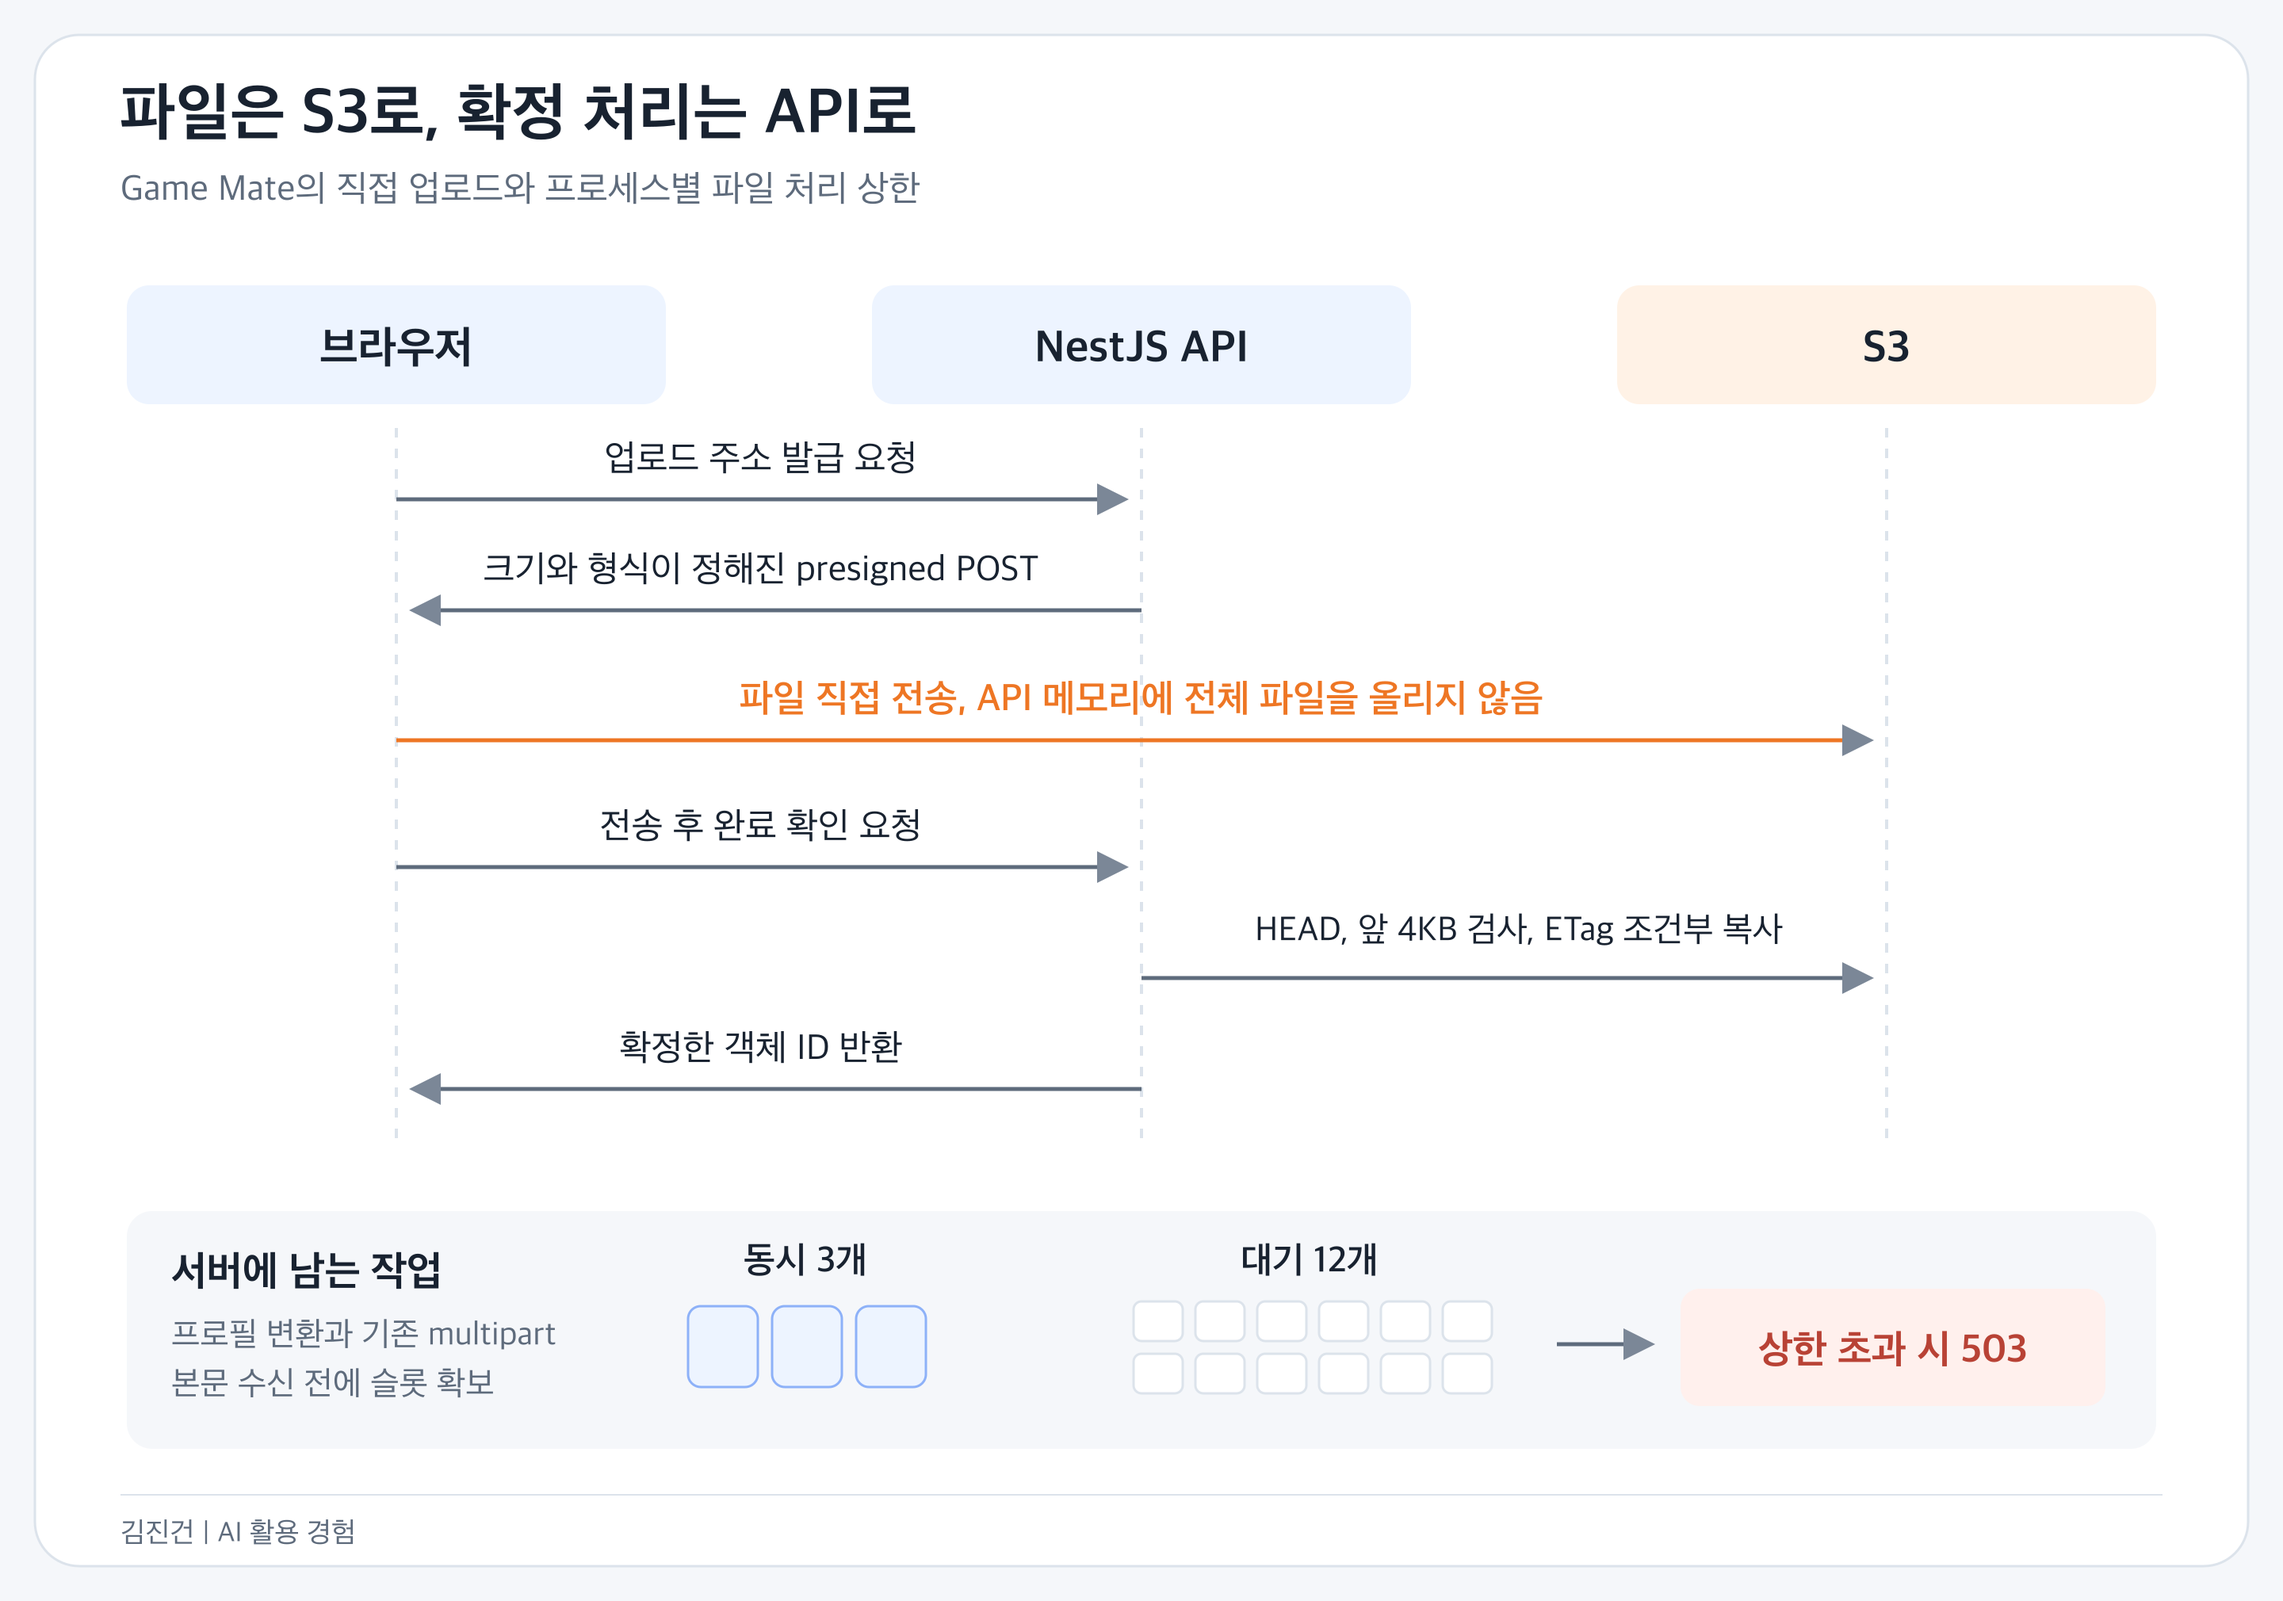
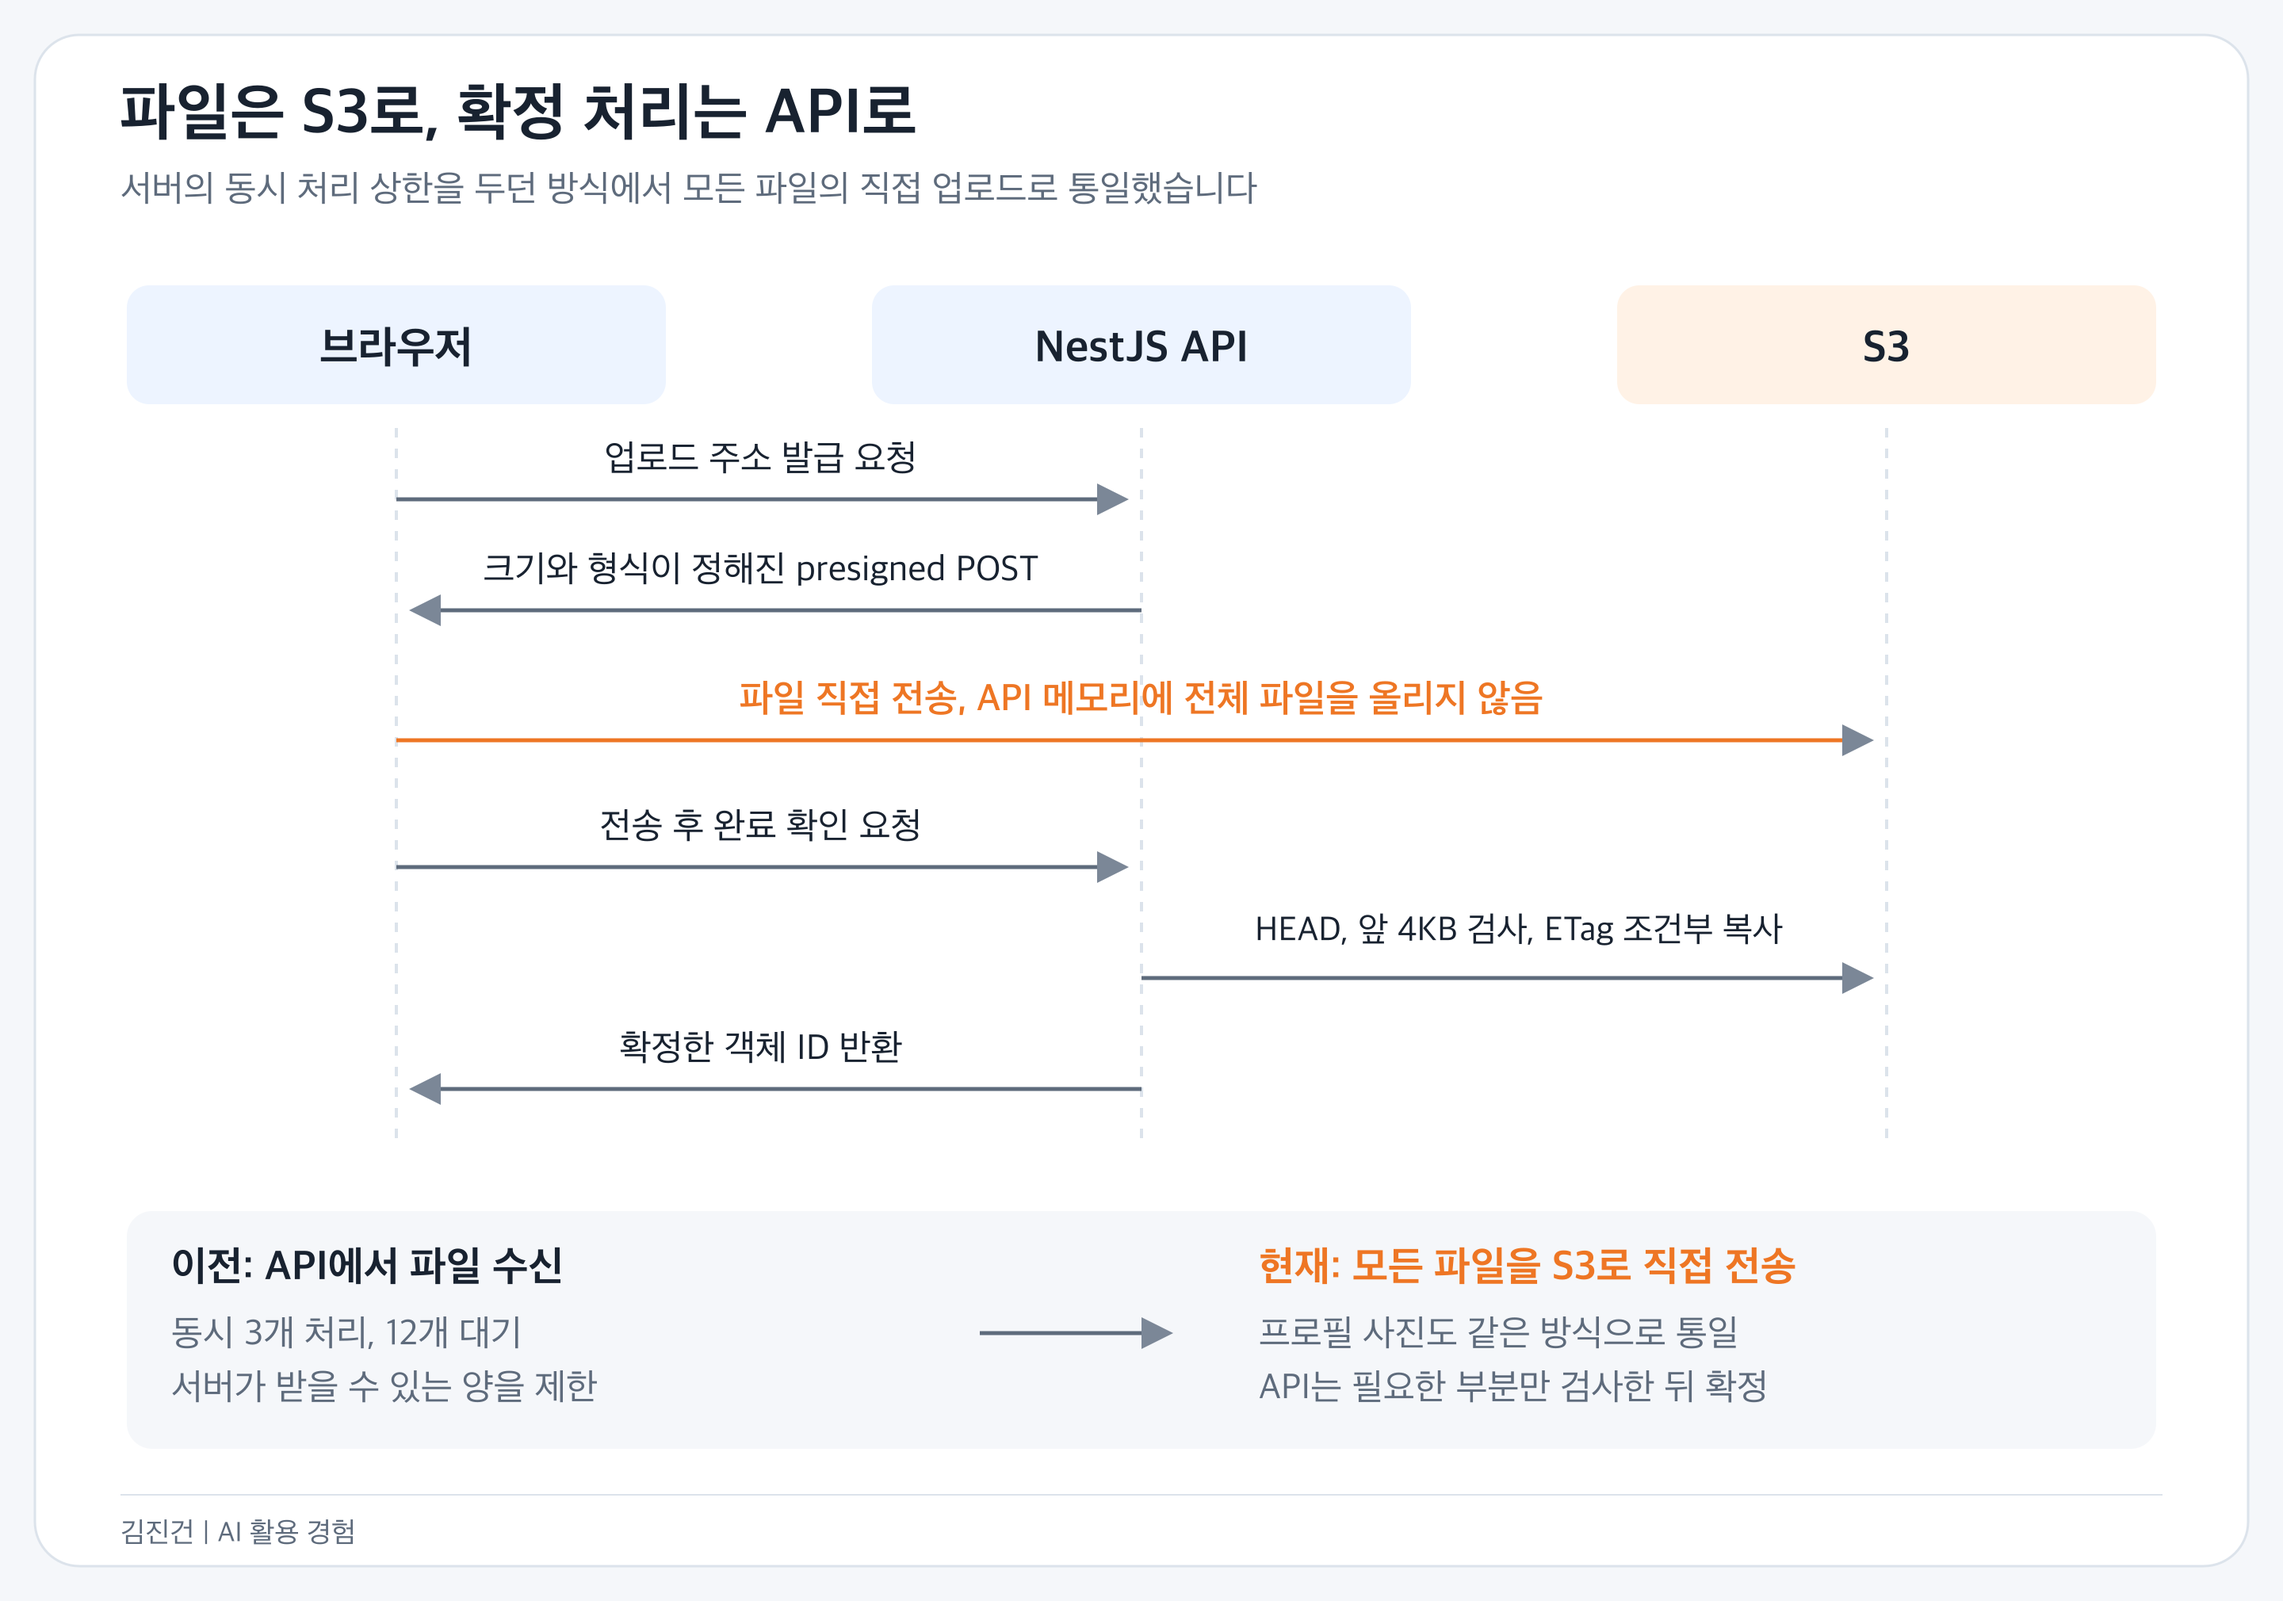
docs(doers): 사이드프로젝트의 판단과 AI 검증 과정을 보강한다

diff --git a/resumes/doers/resume-doers-ai-product-engineer.md b/resumes/doers/resume-doers-ai-product-engineer.md
@@ -32,13 +32,13 @@ Yarn workspace 모노레포에서 사진 커뮤니티와 글로벌 게임 커뮤
 
 - 사진 서비스는 GraphQL과 Apollo, 게임 서비스는 REST와 TanStack Query를 사용합니다. API와 브라우저 캐시는 서비스별로 유지합니다. 공개 데이터는 SSR 캐시를 공유하고 사용자별 데이터는 따로 조회합니다.
 - 게임 게시글을 수정하면 NestJS에서 Next.js Route Handler를 호출해 공개 캐시를 만료하도록 했습니다. DB에 변경 내용과 만료할 태그를 함께 저장해 호출 실패 시 재시도합니다. 이전 요청이 늦게 끝나 새 기록을 지우지 않도록 revision이 일치할 때만 대기 기록을 삭제합니다.
-- 파일은 브라우저에서 S3로 바로 올리도록 바꿨습니다. 게임 서비스는 업로드 후 HEAD와 파일 앞 4KB를 검사하고 ETag가 일치할 때 최종 객체로 복사합니다. 전체 파일을 API 서버 메모리에 올리지 않는 방식입니다. 서버에 남은 multipart 처리와 프로필 변환은 프로세스당 동시 3개, 대기 12개로 제한했습니다.
+- 파일은 프로필 사진까지 브라우저에서 S3로 바로 올리도록 통일했습니다. 게임 서비스는 업로드 후 HEAD와 파일 앞 4KB를 검사하고 ETag가 일치할 때 최종 객체로 복사합니다. 전체 파일을 API 서버 메모리에 올리지 않는 방식입니다.
 
 ### 테스트와 배포 구성
 
 - Vitest로 도메인 규칙을, Supertest와 격리된 PostgreSQL로 API 응답과 DB 결과를 테스트합니다. 브라우저 흐름은 Playwright로 확인합니다. 테스트 설정은 각 앱에서 관리하고 루트에서는 실행만 위임합니다.
 - 공용 ESLint 패키지에서 FSD 경계와 공개 API, 컴포넌트의 직접 fetch, 중복된 오버레이 상태를 검사합니다. 규칙은 TypeScript로 작성하고 RuleTester와 fixture로 테스트합니다. DOM 관련 규칙은 Next.js와 Vite에만 적용하고 Expo에서는 제외했습니다.
-- Sentry로 오류 모니터링과 로깅, Web Vitals 측정을 적용했습니다. Amplitude와 Sentry를 MCP로 연결해 에이전트가 사용자 행동 데이터와 오류, 성능 정보를 개발 과정에서 참고할 수 있도록 했습니다.
+- Sentry로 오류 모니터링과 로깅을 적용하고, Amplitude로 사용자 행동을 수집합니다. 두 도구를 MCP로 연결해 개발용 Sentry 이벤트와 Amplitude 페이지뷰가 실제로 수집됐는지 다시 조회했습니다.
 - 배포 비용을 줄일 방법과 CD 설정 순서를 AI에게 물어보고 EC2 한 대에 두 서비스를 올리기로 했습니다. DB와 파일은 외부 RDS와 서비스별 S3에 둡니다. Terraform으로 네트워크와 리소스, 권한을 구성하고 mock provider 테스트를 붙였습니다. 실제 AWS 계정에 적용하거나 운영 부하를 검증한 단계는 아닙니다.
 
 ## 경력

diff --git a/resumes/doers/assets/ai-experience/README.md b/resumes/doers/assets/ai-experience/README.md
@@ -8,9 +8,10 @@
 | 02-product-direction | 기간제 사진 대회에서 상시 그룹으로 바꾼 방향 |
 | 03-service-architecture | 두 서비스의 API와 클라이언트 캐시, 공유 패키지 |
 | 04-cache-invalidation | DB 변경과 태그 무효화, 전달 실패 복구 |
-| 05-upload-concurrency | Game Mate의 직접 업로드와 프로세스별 처리 상한 |
+| 05-upload-concurrency | API 수신의 동시 처리 제한에서 S3 직접 업로드로 바꾼 흐름 |
 | 06-test-strategy | 테스트 범위와 명세, 회귀 테스트, lint 검증 |
 | 07-deployment | 공용 EC2와 외부 RDS, 서비스별 S3 배포 구성 |
+| 08-monitoring-mcp | Sentry와 Amplitude 수집, MCP로 실제 수신 결과 재조회 |
 
 ## 화면 캡처
 
@@ -24,7 +25,9 @@ captures 폴더는 기존 개발 화면의 PNG를 수정 없이 복사한 원본
 
 ## 구성도의 기준
 
-본문의 코드 링크와 같은 side-project 커밋 6d858497을 기준으로 했습니다. 캐시 전달 실패 후 재시도와 revision 확인, 파일 처리 상한은 실제 구현과 대조했습니다. 사진 서비스는 파일 내용을 읽지 않고 HEAD만 확인하므로 Game Mate의 4KB 검사와 구분합니다. 배포 그림은 Terraform 구성과 mock provider 테스트까지 준비한 상태를 설명하며 실제 AWS 적용 완료를 뜻하지 않습니다.
+2026년 10월 26일 side-project의 develop, 커밋 2aa865bf를 기준으로 본문과 구성도를 대조했습니다. 캐시 전달 실패 후 재시도와 revision 확인은 그대로 유지했습니다. 05번은 과거 동시 3개, 대기 12개 제한과 현재의 S3 직접 업로드를 구분하도록 바꿨습니다. 사진 서비스는 파일 내용을 읽지 않고 HEAD만 확인하므로 Game Mate의 4KB 검사와 구분합니다.
+
+08번은 두 서비스의 observability 문서에 남은 실제 수신과 MCP 재조회 과정을 설명합니다. 개발용 이벤트와 페이지뷰 집계 확인이며 제품의 전환율이나 성능 개선 성과를 뜻하지 않습니다. Web Vitals 전송은 현재 두 웹의 코드에서 확인되지 않아 그림에 넣지 않았습니다. 배포 그림은 Terraform과 컨테이너 smoke 테스트를 준비한 상태로, 실제 AWS 적용 완료를 뜻하지 않습니다.
 
 실무의 QA 더블 체크 요청은 그대로 유지하고, 사이드 프로젝트에 별도 QA 요청 단계가 있었다고 그리지 않았습니다.
 

diff --git a/resumes/doers/README.md b/resumes/doers/README.md
@@ -9,7 +9,7 @@
 
 ## 코드와 기록
 
-코드 링크는 `side-project`의 `6d858497264490c7095e51b8e0effed55324e913`에 고정했습니다. GitHub에서 공개 저장소인 것도 확인했습니다. 현재 기본 브랜치는 develop이며, 기능 브랜치 작업이나 배포 예정 상태를 운영 성과로 바꾸지 않았습니다.
+포트폴리오는 2026년 10월 26일 `side-project`의 develop을 다시 확인해 수정했습니다. 코드 링크는 `2aa865bfbea937a65b921d6620a8b71bbdc21275`에 고정했습니다. GitHub에서 공개 저장소인 것도 확인했습니다. 기능 브랜치 작업이나 배포 예정 상태를 운영 성과로 바꾸지 않았습니다.
 
 다른 Codex 세션의 사용자 요청을 읽고 실제 코드와 대조했습니다. 대화 전체나 인증 설정은 제출 문서에 옮기지 않았습니다.
 
@@ -21,9 +21,13 @@
 | 작성과 수정의 흐름을 나누고 입력 필드만 공유 | 게임 서비스 post-composer |
 | API에서 내용이 바뀌면 Next Route Handler로 캐시 만료 | 캐시 무효화 서비스와 DB 대기 기록, 경합 통합 테스트 |
 | 게시물과 채팅, 사진 서비스 전반의 presigned 업로드 | 서비스별 저장소와 업로드 구현 |
+| API 파일 수신의 동시 처리 제한에서 모든 파일의 S3 직접 업로드로 변경 | 2ca0034f 커밋과 현재 MediaStorage 구현 |
 | 앱별 테스트 소유, unit과 integration을 구현 옆에 배치 | 테스트 skills와 앱별 설정 |
 | 공용 TypeScript ESLint와 RuleTester, fixture | 공용 ESLint 패키지 |
 | 최소 비용 배포, CD 준비, 두 서비스를 한 EC2와 외부 DB, S3에 배치 | 공통 배포 구성과 Terraform |
+| Amplitude와 Sentry MCP 연결, 실제 수신 결과 재조회 | 두 서비스의 observability 문서와 monitoring.live.spec.ts |
+
+Sentry의 모니터링과 로깅, Web Vitals 측정, MCP 연결은 사용자가 구분해 설명했습니다. 현재 develop의 두 웹은 tracesSampleRate가 0이고 성능 추적을 사용하지 않는다고 명시돼 있습니다. 포트폴리오는 이 코드에서 확인한 오류 수집과 MCP 재조회로 설명하고, 사이드프로젝트 Web Vitals 수집 코드의 위치는 사용자에게 확인을 요청했습니다. 실무 복지몰의 Web Vitals 측정과 섞지 않습니다.
 
 ## 제출 전 확인
 
